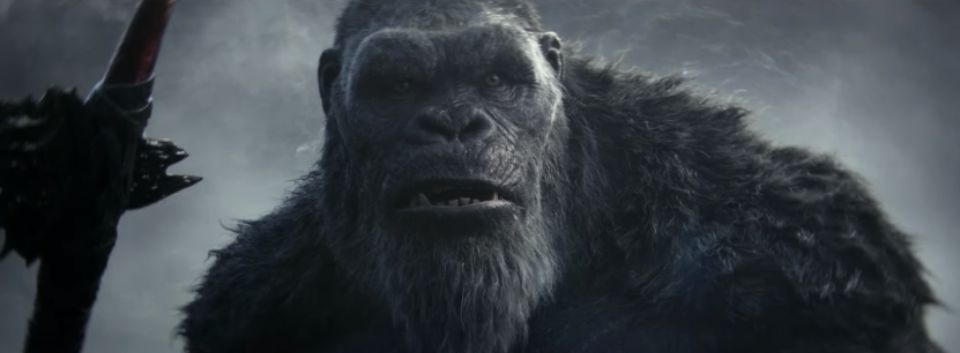
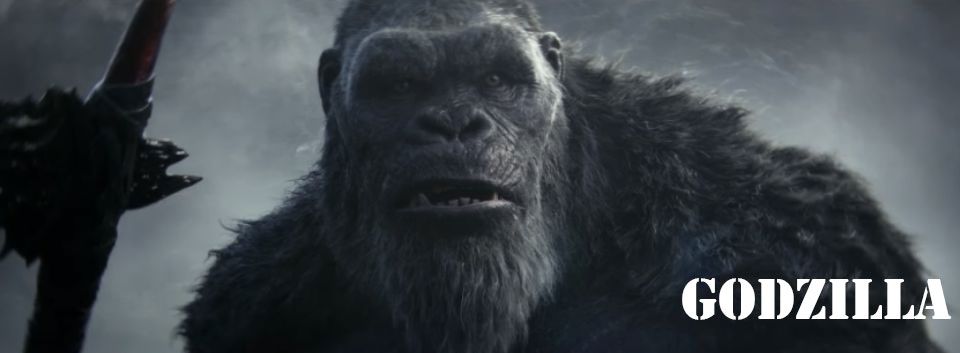
Slide Estrenos

Changed region(s): [[0.6875, 0.779, 1.0, 0.9037]]

diff --git a/index.html b/index.html
@@ -6,6 +6,9 @@
     <title>PROYECTO</title>
     <link rel="stylesheet" href="./styles/index-style.css">
     <link href="https://cdn.jsdelivr.net/npm/bootstrap@5.3.3/dist/css/bootstrap.min.css" rel="stylesheet" integrity="sha384-QWTKZyjpPEjISv5WaRU9OFeRpok6YctnYmDr5pNlyT2bRjXh0JMhjY6hW+ALEwIH" crossorigin="anonymous">
+    <link rel="preconnect" href="https://fonts.googleapis.com">
+    <link rel="preconnect" href="https://fonts.gstatic.com" crossorigin>
+    <link href="https://fonts.googleapis.com/css2?family=Saira+Stencil+One&display=swap" rel="stylesheet">
   </head>
   <body class="background-gradient img-fluid">
     <script src="https://cdn.jsdelivr.net/npm/bootstrap@5.3.3/dist/js/bootstrap.bundle.min.js" integrity="sha384-YvpcrYf0tY3lHB60NNkmXc5s9fDVZLESaAA55NDzOxhy9GkcIdslK1eN7N6jIeHz" crossorigin="anonymous"></script>
@@ -18,11 +21,17 @@
           <div class="text-menu"><a href="#">Iniciar sesion</a></div>
         </div>
       </nav>
+      <h2 class="text-estrenos">ESTRENOS</h2>
       <div class="estrenos">
-        <img class="carrusel-estrenos" src="./resources/img/godzilla.jpg" alt="">
-        <img src="" alt="">
-        <img src="" alt="">
+        
+        <img class="img-fluid" src="./resources/img/godzilla.jpg" alt="">
+        <img class="img-fluid" src="./resources/img/kunfu-panda-4.jpg" alt="">
+        <img class="img-fluid" src="./resources/img/un-gato-con-suerte.jpg" alt="">
+        <img class="img-fluid" src="./resources/img/abigail.jpg" alt="">
+        <img class="img-fluid" src="./resources/img/la-primera-profecia.jpg" alt="">
+        <img class="img-fluid" src="./resources/img/guerra-civil.jpg" alt="">
       </div>
+
     </header>
     <div id="pelis" class="container-large">
       <h1 class="title-pelis">PELICULAS</h1>
@@ -41,10 +50,6 @@
         <div class="pelis-div"><img class="img-fluid img-select" src="./resources/img/thor-ragnarok.jpg" alt=""></div>
       </div>
     </div>     
-
-    
-          
-    
     
   </body>
 </html>

diff --git a/styles/index-style.css b/styles/index-style.css
@@ -13,15 +13,39 @@ body{
 .estrenos{
 
     display: flex;
-    border-radius: 2%;
-    align-items: center;
-    justify-content: center;
+    width: 90%; 
+    margin-right: 5%;
+    margin-left:5%;
+    height: 353px;
+    margin-top: 2%;
 }
 
-.carrusel-estrenos{
+.estrenos img{
 
+    width: 0px;
+    flex-grow: 1;
+    object-fit: cover;
+    opacity: .9;
+    transition: 1s ease;
+}
+
+.text-estrenos{
+
+    text-align: center;
+    margin-top: 5%;
+    font-family: "Saira Stencil One", sans-serif;
+    color:black;
+    text-shadow: 0 0 10px rgb(236, 233, 233);
+
+
+}
+
+.estrenos img:hover{
+
+    cursor:pointer;
     width: 80%;
-    border-radius:10px;
+    opacity: 1;
+    
 }
 
 .container-large{
@@ -42,7 +66,8 @@ body{
     display: flex;
     align-items: center;
     justify-content: center;
-    color: rgb(14, 13, 13);
+    font-family: "Saira Stencil One", sans-serif;
+    color: black;
     text-shadow: 0 0 10px rgb(236, 233, 233);
 }
 
@@ -79,6 +104,7 @@ body{
     
     display: inline-block;
     margin-right: 1.5rem;
+    font-family: "Saira Stencil One", sans-serif;
     font-size: 1.8rem;
     font-weight: 600;
     margin-top: 1%;
